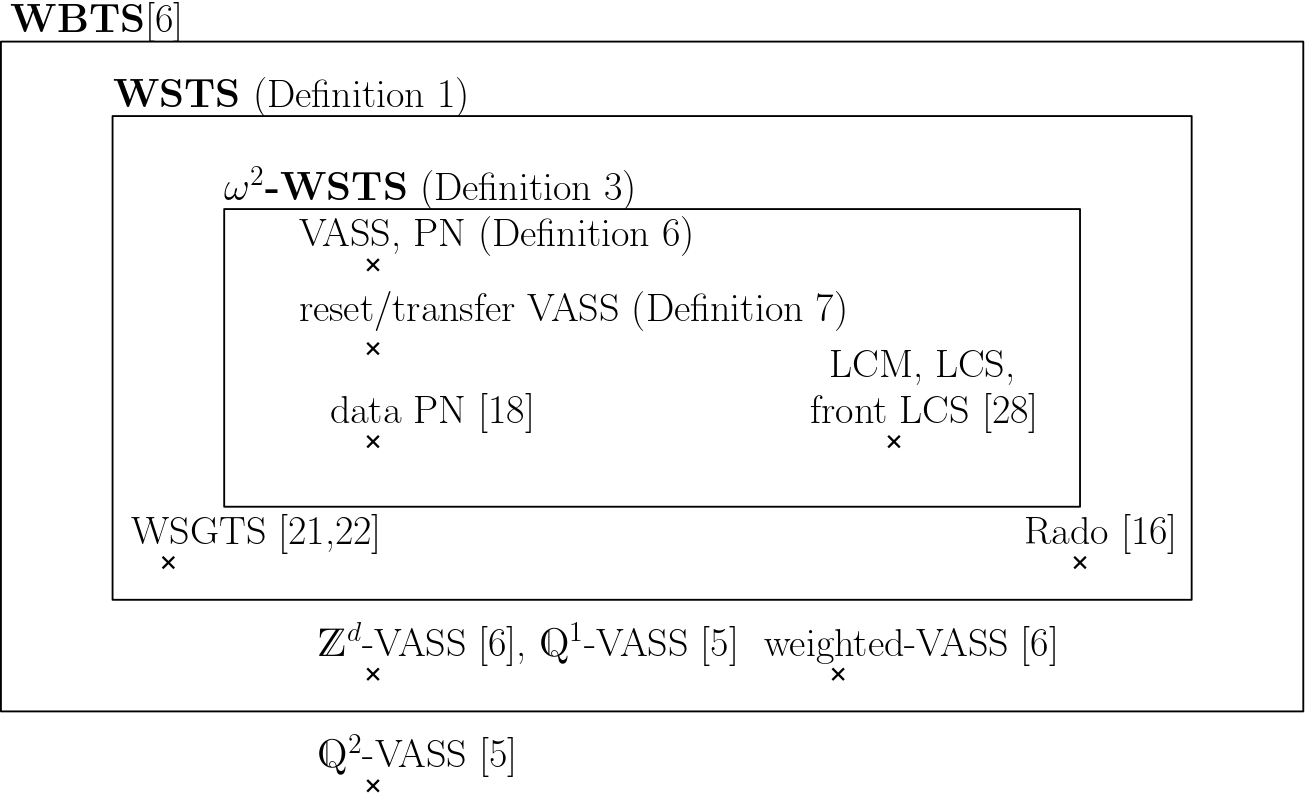
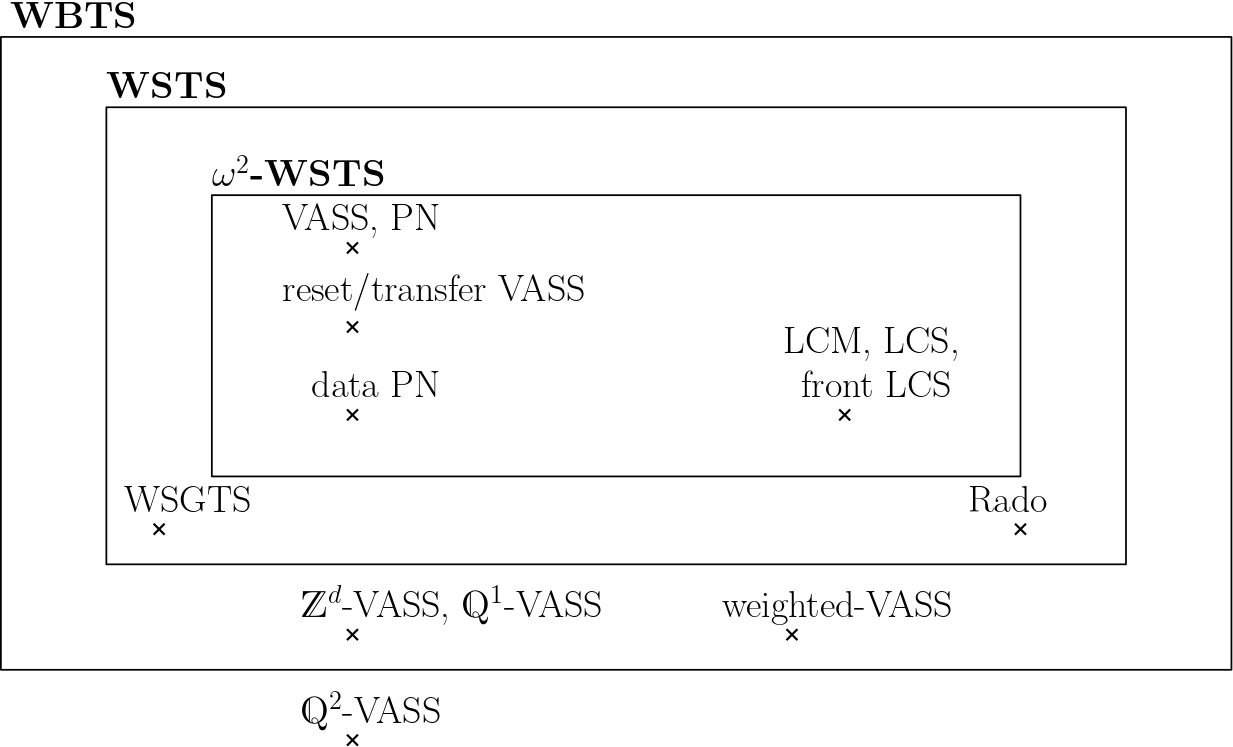
up

diff --git a/diapo/presentation.tex b/diapo/presentation.tex
@@ -361,9 +361,7 @@ effective +  $I \in Ideals(S) \to$ a finite basis of $\mathop{\downarrow} \pred^
 	\end{figure}
 \end{center}  
 
-  \todo[inline,color=blue!20]{ 
-Refaire les références dans l'image (pas les même défintions/ref) 
-}
+
 
 
   \end{frame}
